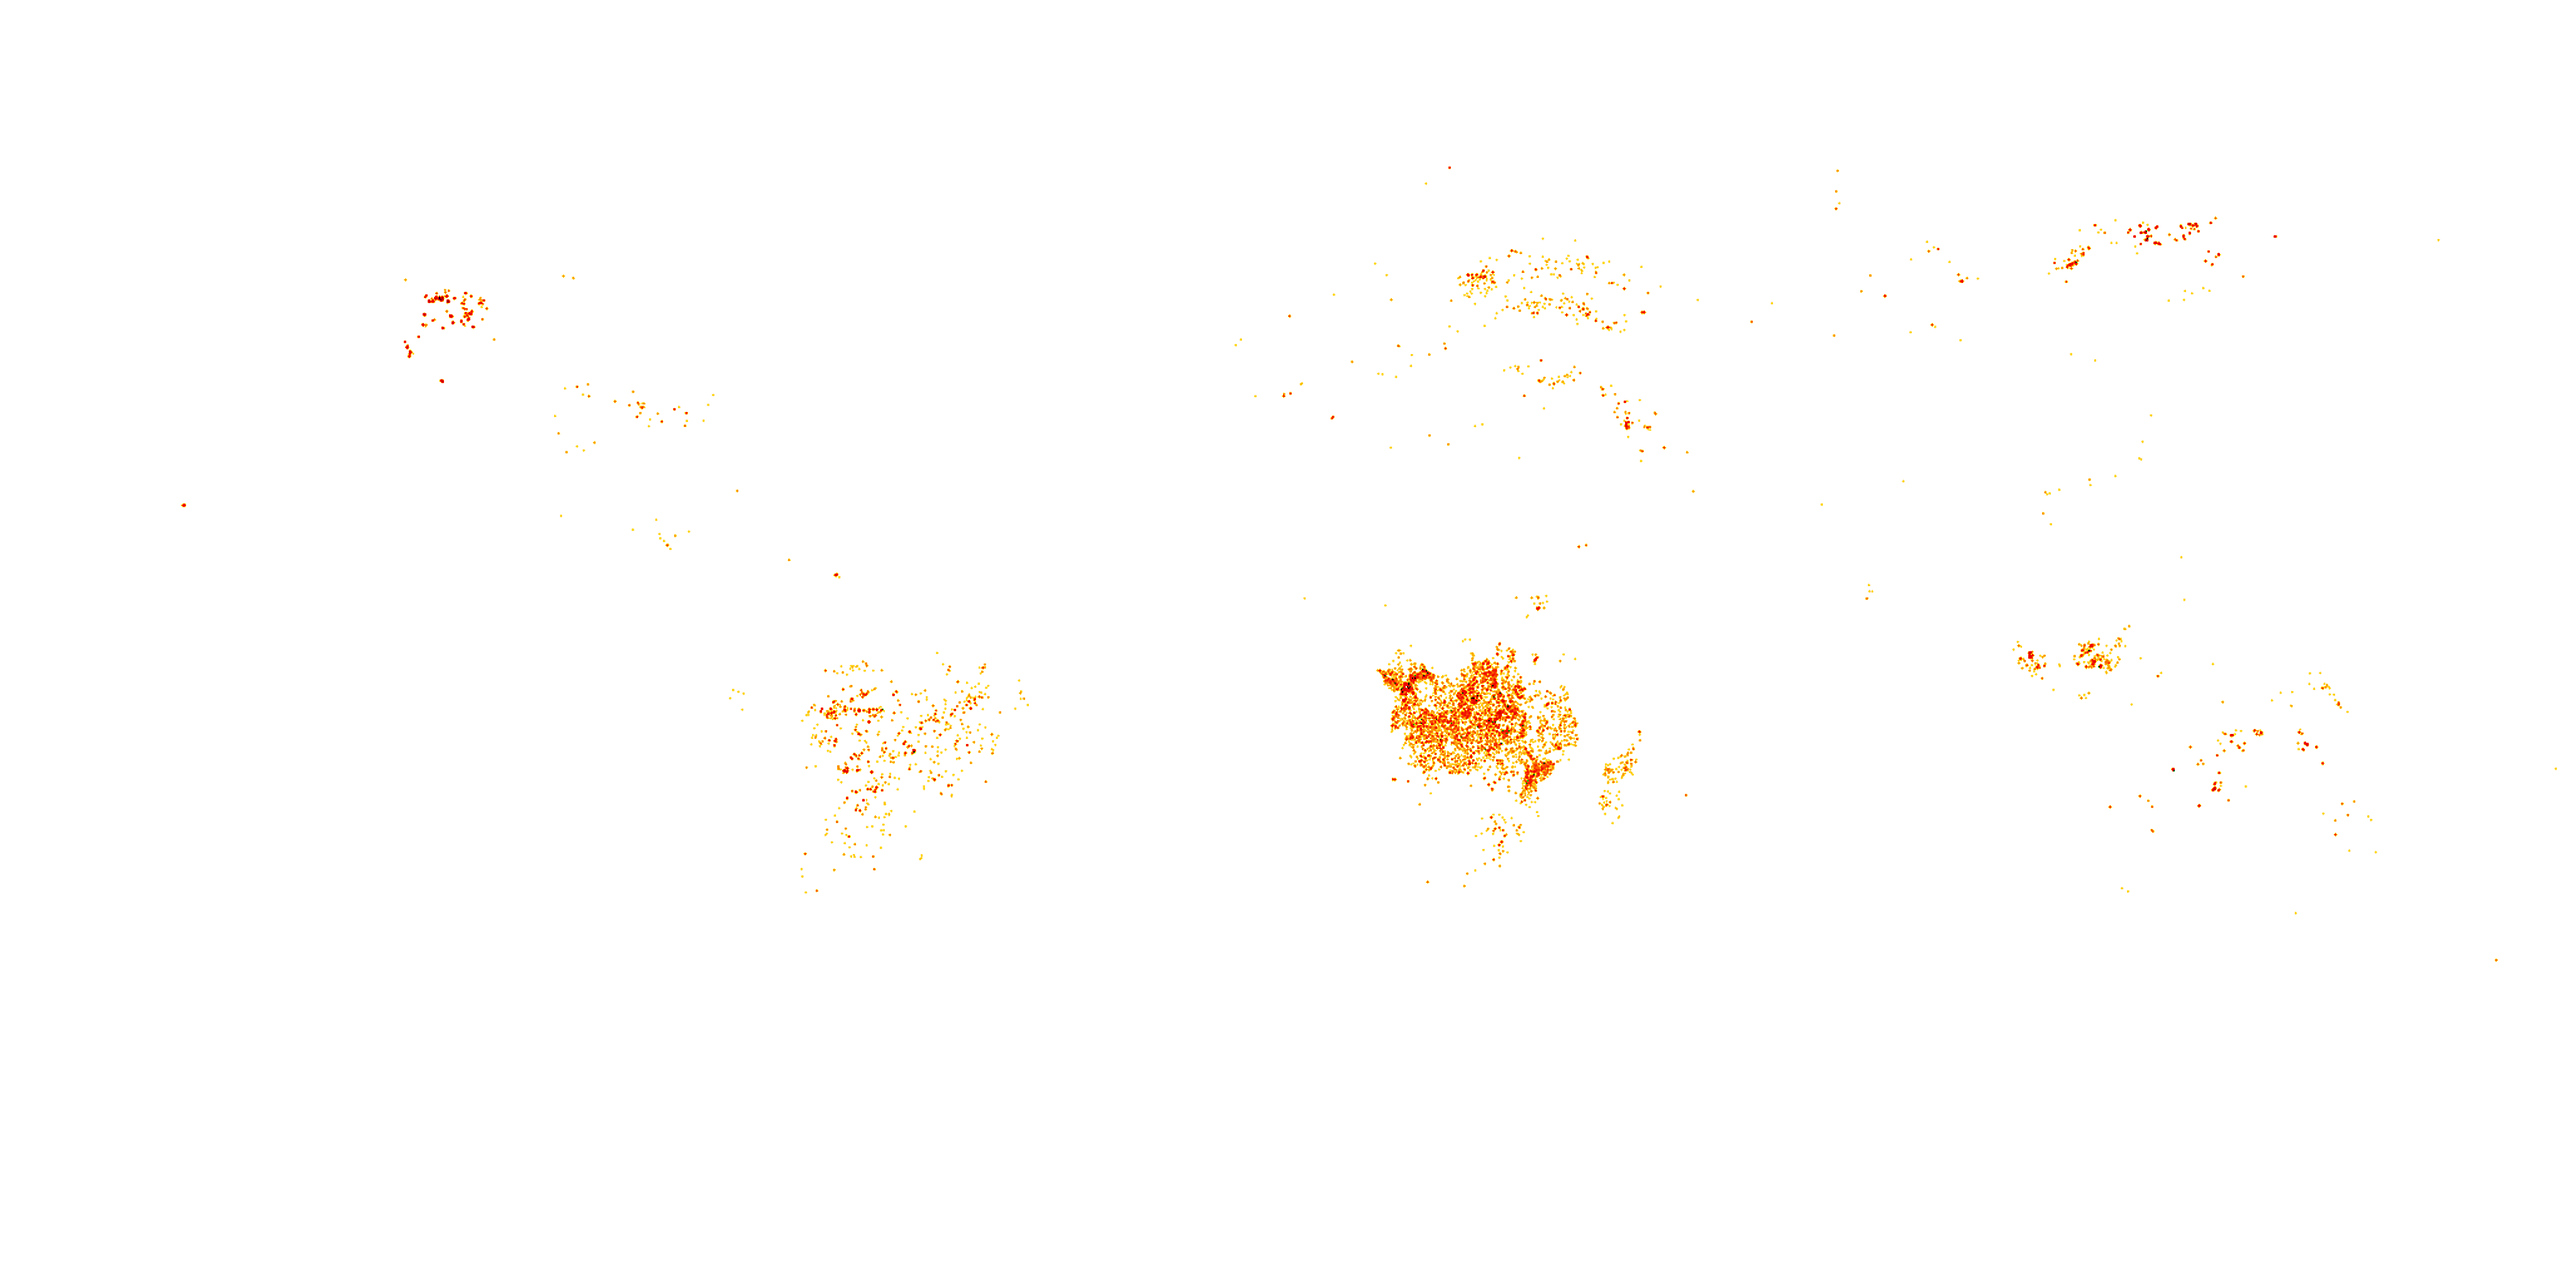
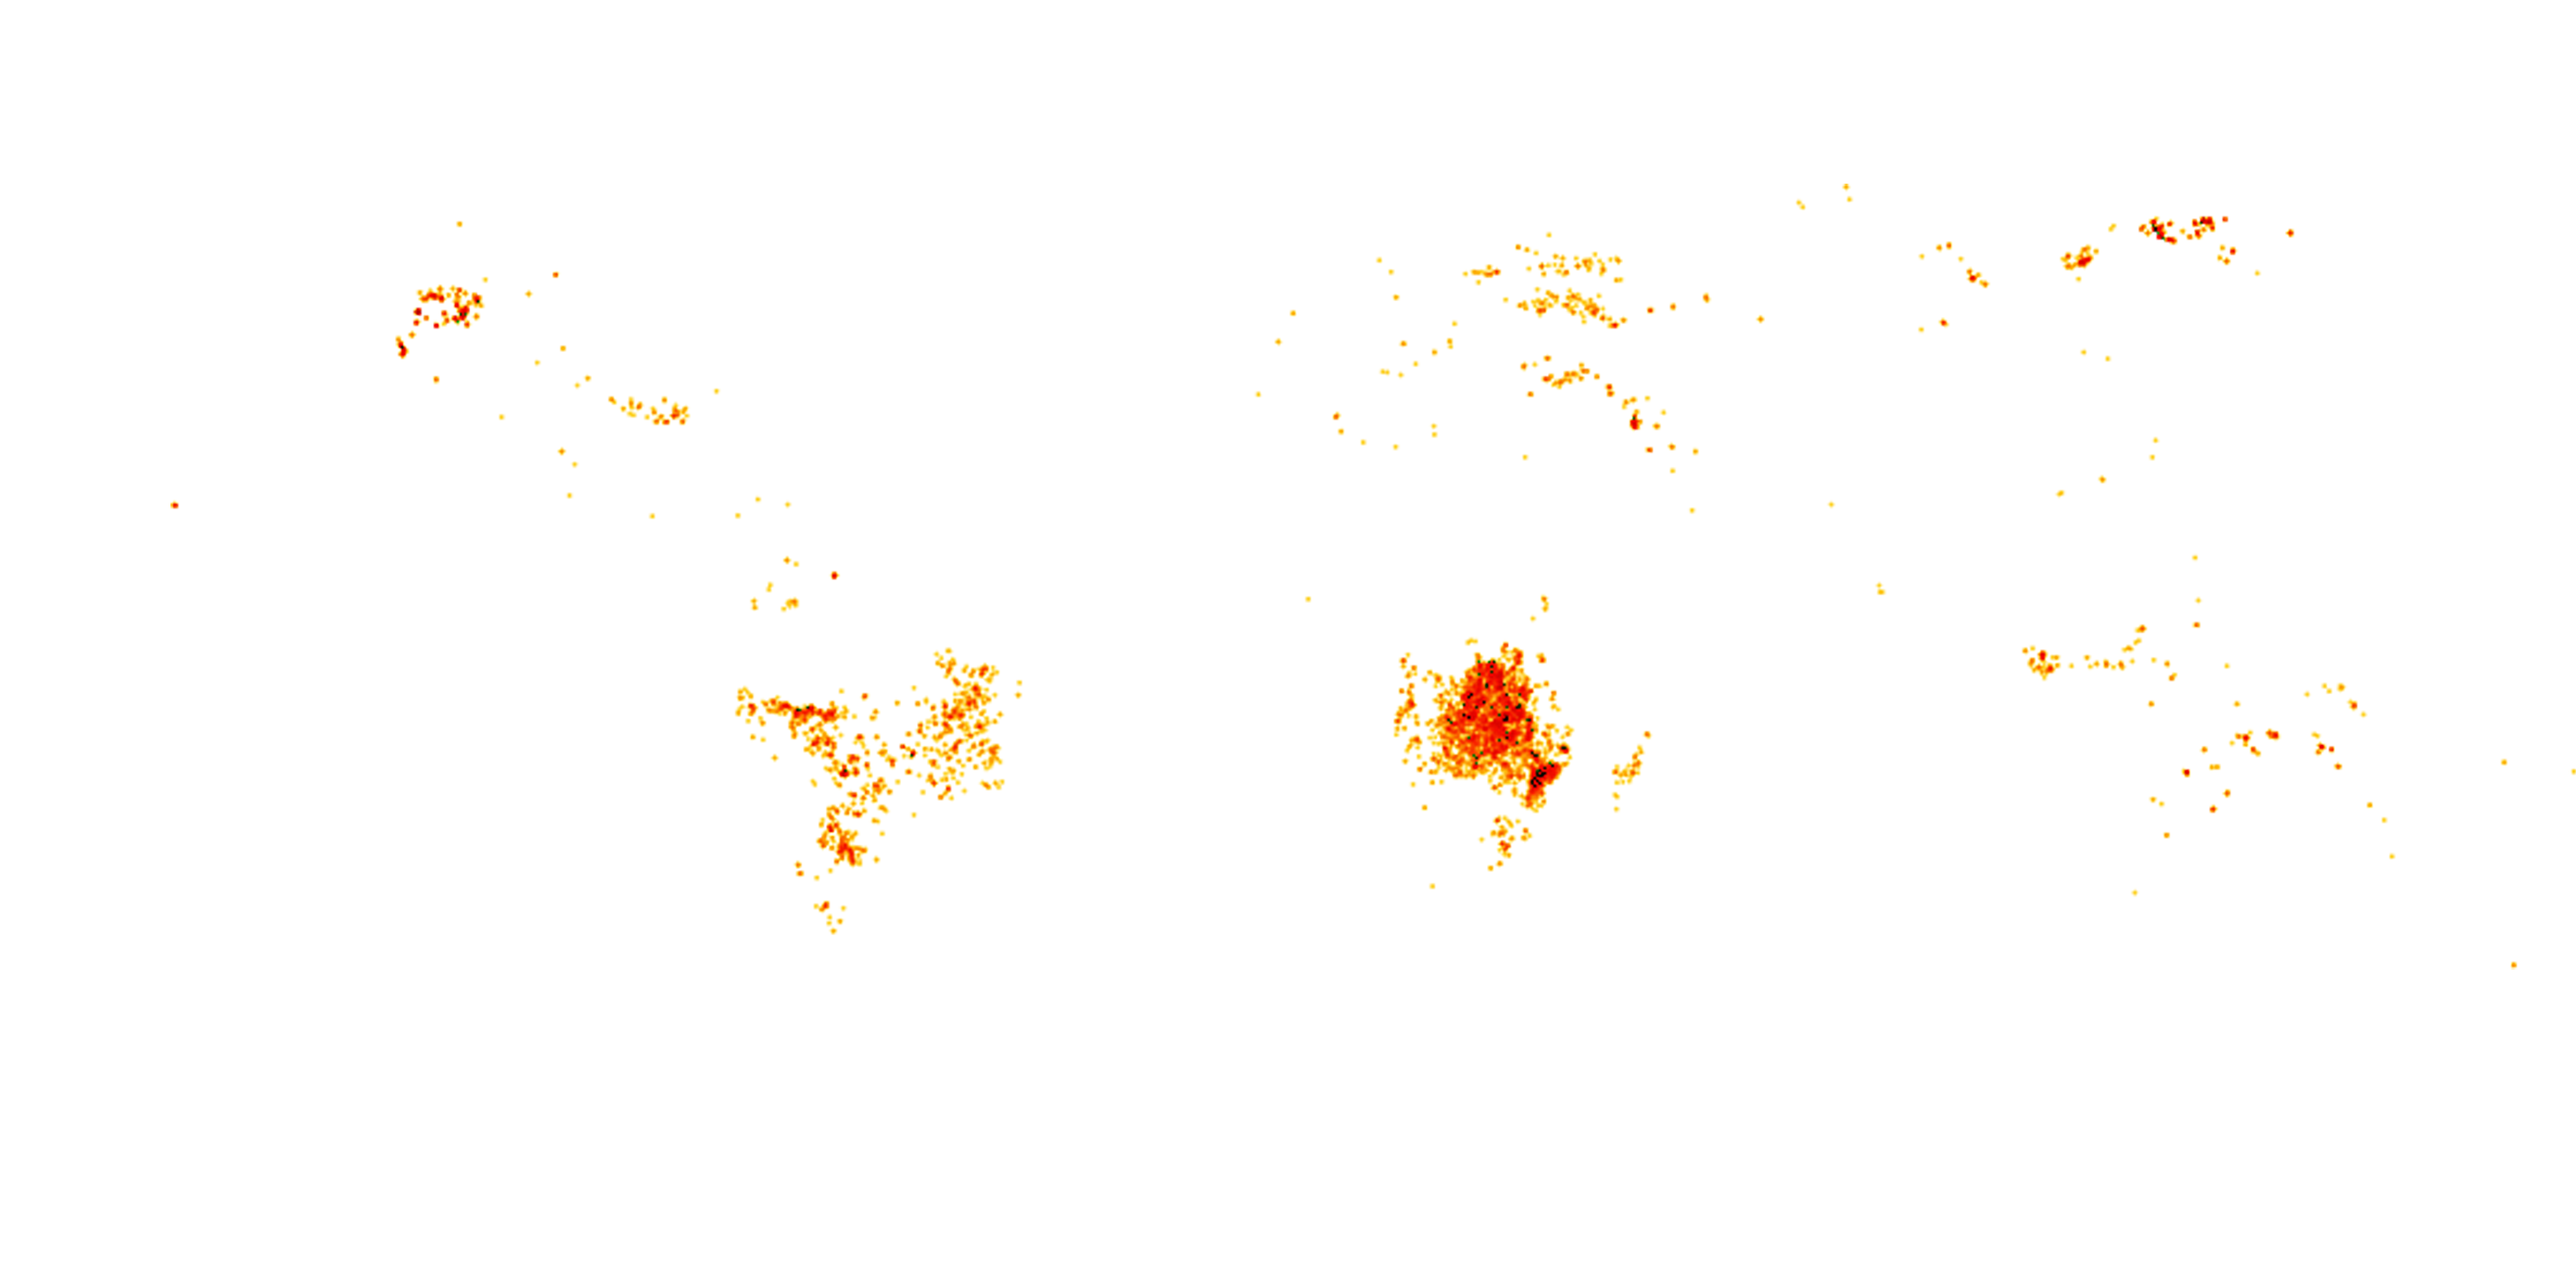
added fires

diff --git a/src/js/planet-pulse/globe.js b/src/js/planet-pulse/globe.js
@@ -28,14 +28,14 @@ var Globe = function(element) {
 
   function createClouds(radius, segments) {
     return new THREE.Mesh(
-      new THREE.SphereGeometry(radius + 0.003, segments, segments),     
+      new THREE.SphereGeometry(radius + 0.003, segments, segments),
       new THREE.MeshPhongMaterial({
         map: THREE.ImageUtils.loadTexture(hostname + 'img/planet-pulse/fair_clouds_4k.png'),
         side: THREE.DoubleSide,
         transparent: true,
         depthWrite: false
       })
-    );    
+    );
   }
 
   function createSpace(radius, segments) {
@@ -50,7 +50,7 @@ var Globe = function(element) {
 
   function createLayer(name, imageUrl) {
     var layer = new THREE.Mesh(
-      new THREE.SphereGeometry(radius + 0.002, segments, segments),     
+      new THREE.SphereGeometry(radius + 0.002, segments, segments),
       new THREE.MeshPhongMaterial({
         map: THREE.ImageUtils.loadTexture(imageUrl),
         side: THREE.DoubleSide,
@@ -158,7 +158,7 @@ var Globe = function(element) {
     renderer.setSize( window.innerWidth, window.innerHeight );
   }
 
-  // window.addEventListener('resize', onWindowResize, false);
+  window.addEventListener('resize', onWindowResize, false);
 
   this.setPosition = setPosition;
 

diff --git a/src/js/planet-pulse/planet-pulse.js b/src/js/planet-pulse/planet-pulse.js
@@ -43,7 +43,7 @@ require([
         case 'fires':
           this.globe.ambientLight.color.setHex(0xcccccc);
           this.globe.sphere.material.map = THREE.ImageUtils.loadTexture(hostname + 'img/planet-pulse/basemap-terrain-blue_4k.jpg');
-          this.globe.createLayer(this.currentVis, hostname + 'img/planet-pulse/layers/fires_4k.jpg');
+          this.globe.createLayer(this.currentVis, hostname + 'img/planet-pulse/layers/fires_4k.png');
           break;
         case 'protected-areas':
           this.globe.ambientLight.color.setHex(0xcccccc);
@@ -118,7 +118,7 @@ require([
       this.$title.hide(100)
       this.$nav.addClass('is-blur');
       this.$backBtn.show(100);
-      
+
       // TODO
       this.globeView.setVis(vis);
     },
